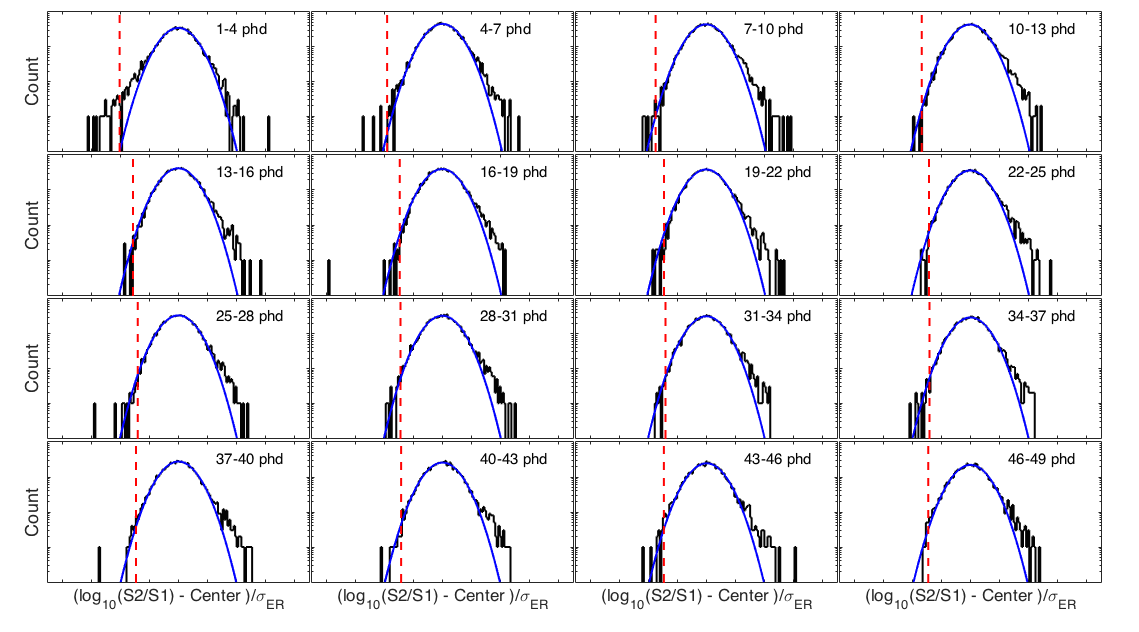
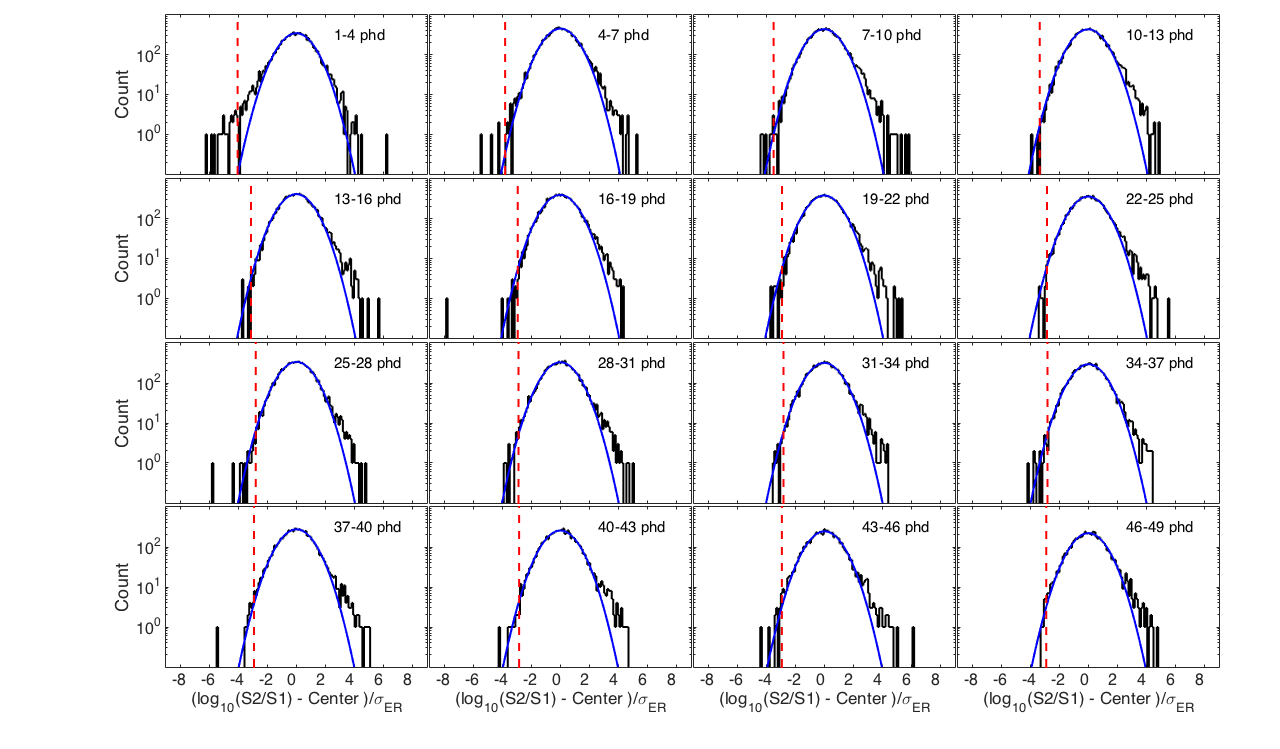
Updated figures and recombination text
Added text for size of recombination fluctuations. Fixed GaussER_all
plot labels, fixed plot formatting (Carter’s Comments)

diff --git a/TritiumSVN/Results.tex b/TritiumSVN/Results.tex
@@ -91,7 +91,7 @@ r = \frac{(n_{\gamma}/n_e) - \alpha}{(n_{\gamma}/n_e) + 1},
 \end{equation}
 
 \noindent
-is shown explicitly in Fig. \ref{fig:recombination}, measured with both the 180~V/cm and 105~V/cm tritium data. We find only a small difference in the recombination between these two field values in this energy range. It is worth noting that recombination is small at the very lowest energies where the dark matter search is performed, rapidly approaching zero as the energy drops below 4~keV. As noted before, this behavior is of considerable importance for the efficacy of recoil discrimination in LXe~\cite{xed-discrimination}. Other authors have used $\alpha$ values between 0.06 and 0.2~\cite{kaixuan}. Changing the value of $\alpha$ modestly affects the absolute magnitude of the resulting recombination fraction but has only a small affect on the shape as a function of energy. 
+is shown explicitly in Fig. \ref{fig:recombination}, measured with both the 180~V/cm and 105~V/cm tritium data. We find only a small difference in the recombination between these two field values in this energy range. It is worth noting that recombination is small at the very lowest energies where the dark matter search is performed, rapidly approaching zero as the energy drops below 4~keV. As noted before, this behavior is of considerable importance for the efficiency of recoil discrimination in LXe~\cite{xed-discrimination}. Other authors have used $\alpha$ values between 0.06 and 0.2~\cite{kaixuan}. Changing the value of $\alpha$ modestly affects the absolute magnitude of the resulting recombination fraction but has only a small affect on the shape as a function of energy. 
 
 \begin{figure}[h!]
 \includegraphics[width=90mm]{fig/recombination.png}
@@ -101,7 +101,7 @@ is shown explicitly in Fig. \ref{fig:recombination}, measured with both the 180~
 
 \subsection{LUX electron recoil band}
 
-The LUX ER band is shown as log$_{10}$(S2/S1) vs S1 in Fig. \ref{fig:ER_band}(top).  It has a characteristic rise at decreasing values of S1 which reflects the rapidly changing charge and light yields below $\sim$6~keV.  Also shown in Fig. \ref{fig:ER_band}(top) is the NR band measured with neutron generator data\cite{DD-paper, lux-reanalysis}. The width of the ER band is of considerable interest because it determines the recoil discrimination of the detector. The leakage fraction ($f$), defined as the fraction of ER events observed below the mean of the NR band, is shown in Fig. \ref{fig:ER_band}(bottom) as a function of S1. The recoil discrimination efficiency ($1-f$) has an average value of 99.81 $\pm$ 0.02\% for events with S1 between 1 and 50 phd.
+The LUX ER band is shown as log$_{10}$(S2/S1) vs S1 in Fig. \ref{fig:ER_band}(top).  It has a characteristic rise at decreasing values of S1 which reflects the rapidly changing charge and light yields below $\sim$6~keV.  Also shown in Fig. \ref{fig:ER_band}(top) is the NR band measured with neutron generator data\cite{DD-paper, lux-reanalysis}. The width of the ER band is of considerable interest because it determines the recoil discrimination of the detector. The leakage fraction ($f$), defined as the fraction of ER events observed below the mean of the NR band, is shown in Fig. \ref{fig:ER_band}(bottom) as a function of S1. The recoil discrimination efficiency ($1-f$) has an average value of 99.81 \% $\pm$ 0.02\% \fixit{ $\rm stat \pm 0.1\%$ sys} for events with S1 between 1 and 50 phd.
 
 \begin{figure}[h!]
 \includegraphics[width=80mm]{fig/CH3T_ER_Band.png}
@@ -111,7 +111,7 @@ The LUX ER band is shown as log$_{10}$(S2/S1) vs S1 in Fig. \ref{fig:ER_band}(to
 \label{fig:ER_band}
 \end{figure}
 
-In general the ER band width should be comprised of three components: the uncertainties on  $n_{\gamma}$ and $n_e$  due to detector resolution ($ \sigma(n_{\gamma})$ and $ \sigma(n_e)$), and true event-to-event variations in recombination ($ \sigma(R)$). $ \sigma(n_{\gamma})$ and $ \sigma(n_e)$ are responsible for fluctuations in the vertical  and horizontal directions in Fig. \ref{fig:tritium-scatter},  while $ \sigma(R)$ causes fluctuations along the diagonal lines of constant energy. $ \sigma(n_{\gamma})$ and $ \sigma(n_e)$ can be measured as a function of energy and are shown in Fig. \ref{fig:recomb-flucs} for LUX tritium data at 180~V/cm\cite{Dobi_Thesis}. Also shown in Fig. \ref{fig:recomb-flucs} is the extracted value of $ \sigma(R)$ as a function of energy after controlling for $ \sigma(n_{\gamma})$ and $ \sigma(n_e)$ by a method described in Ref. \cite{Dobi_Thesis}. 
+In general the ER band width should be comprised of three components: the uncertainties on  $n_{\gamma}$ and $n_e$  due to detector resolution ($ \sigma(n_{\gamma})$ and $ \sigma(n_e)$), and true event-to-event variations in recombination ($ \sigma(R)$). $ \sigma(n_{\gamma})$ and $ \sigma(n_e)$ are responsible for fluctuations in the vertical  and horizontal directions in Fig. \ref{fig:tritium-scatter},  while $ \sigma(R)$ causes fluctuations along the diagonal lines of constant energy. $ \sigma(n_{\gamma})$ and $ \sigma(n_e)$ can be measured as a function of energy and are shown in Fig. \ref{fig:recomb-flucs} for LUX tritium data at 180~V/cm\cite{Dobi_Thesis}. Also shown in Fig. \ref{fig:recomb-flucs} is the extracted value of $ \sigma(R)$ as a function of energy after controlling for $ \sigma(n_{\gamma})$ and $ \sigma(n_e)$ by a method described in Ref. \cite{Dobi_Thesis}. \fixit{The amount of event-to-event recombination fluctuations ($ \sigma(R)$) grows linearly as a function of number of ions available for recombination (or energy). For energies between 2 to 16~keV the size of recombination fluctuations can be described by $\rm \sigma(R)=(0.07\pm0.01) \times n_{ion}$, consistent with \cite{Dobi_Thesis}.}
 
 \begin{figure}[h!]
 \includegraphics[width=90mm]{fig/recomb_flucs.png}
